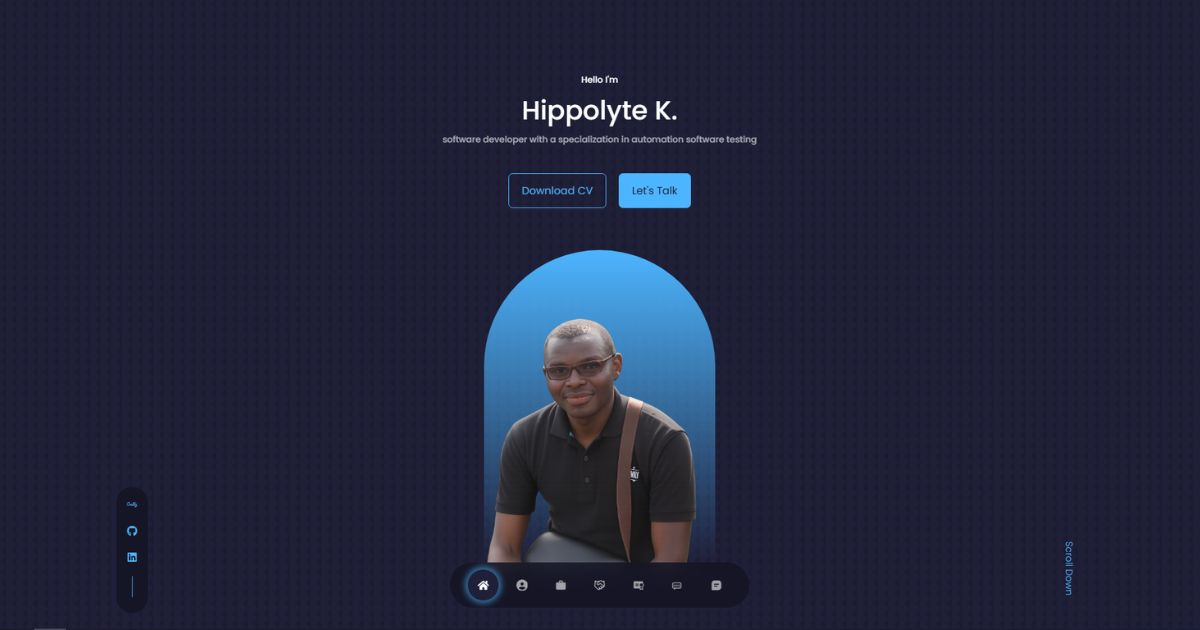
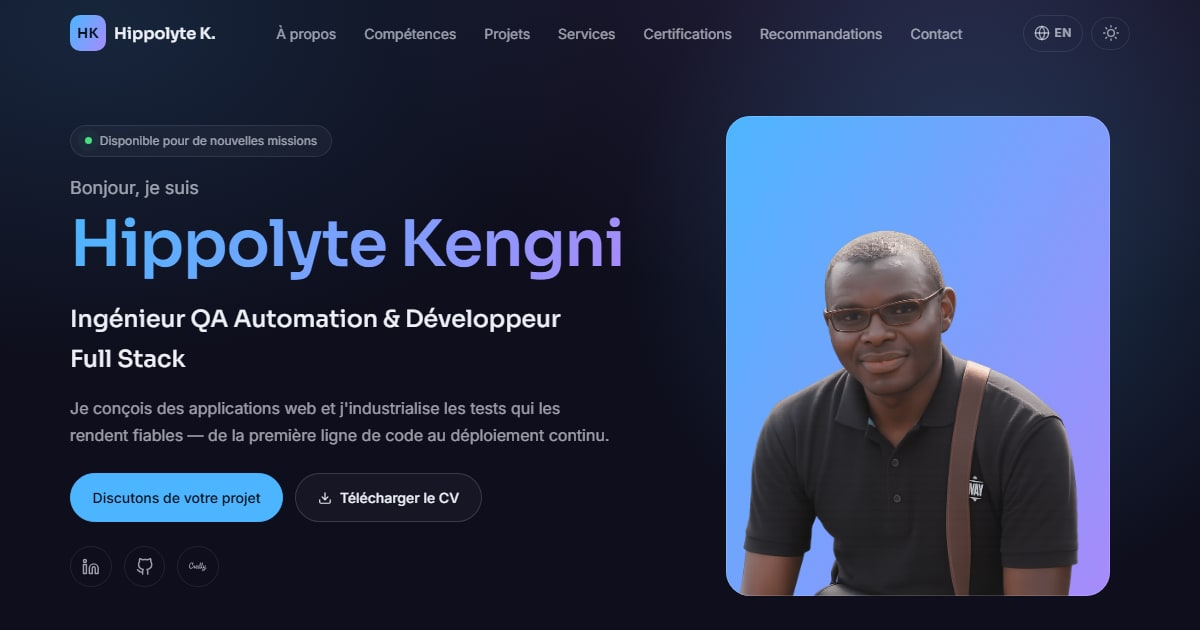
feat: régénérer l'aperçu Open Graph depuis le nouveau design

diff --git a/ia-memory/BACKLOG.md b/ia-memory/BACKLOG.md
@@ -6,8 +6,6 @@
       domaines autorisés à `hippolytek.fr` et `aziguy.github.io` et activer la limitation de
       débit. Les identifiants sont exposés côté client par construction : c'est cette restriction
       qui protège le quota d'envoi. Voir [décision 0004](decisions/0004-secrets-emailjs.md).
-- [ ] **Remplacer `public/preview.jpg`.** L'aperçu Open Graph date de la version précédente
-      du site. Format attendu : 1200 × 630 px.
 - [ ] **Actualiser le CV.** `src/assets/KENGNI_Hippolyte_CV_FR_082025_dev.pdf` pèse 1,4 Mo et
       porte une date d'août 2025 ; prévoir une version compressée et une version anglaise.
 
